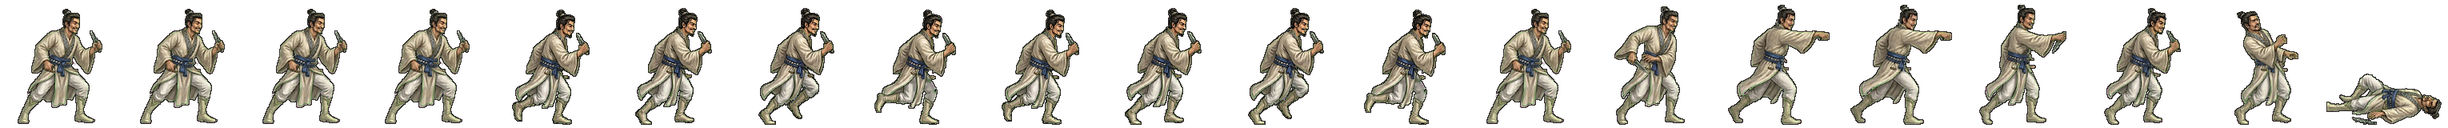
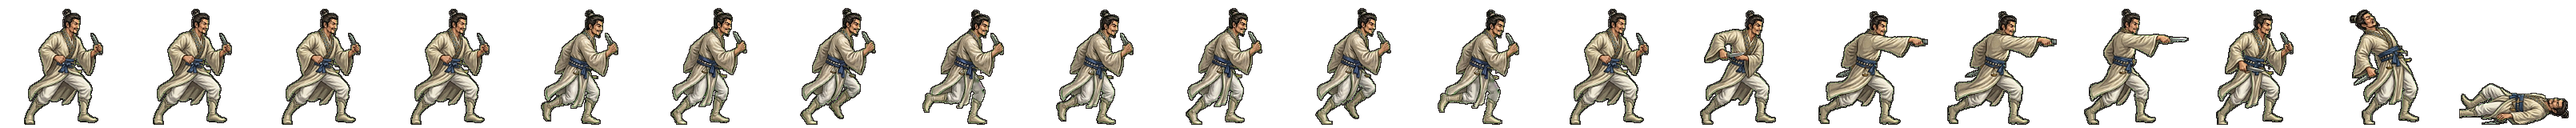
전투 띠 새로: odogan 동작 띠 다시 — 형이 구움 (굽기 꾸러미 · 검수 1·3번) (형 11-08)
Claude-Session: https://claude.ai/code/session_01TRiuNAG8xSjdmjCFpc8Rd5

Changed region(s): [[0.0, 0.0625, 1.0, 0.9688]]

diff --git a/src/ui/realm/battle-strikes.ts b/src/ui/realm/battle-strikes.ts
@@ -143,7 +143,7 @@ const CONTACT: Readonly<Record<string, [number, number, number]>> = {
   'gen-haebi': [14, 0.87, 0.53], 'gen-heo': [14, 0.94, 0.46], 'gen-hyeokgeose': [14, 0.83, 0.94],
   'gen-hyeopbo': [14, .93, .21], 'gen-malgalgi': [14, 0.88, 0.28], 'gen-mari': [14, .98, .47],
   'gen-oi': [14, .98, .48], 'gen-onjo': [14, 0.83, 0.93], 'gen-soebi': [14, 0.80, 0.95],
-  'gen-soseono': [14, 0.92, 0.31], 'gen-maryeo': [14, 0.91, 0.79], 'gen-horselord': [14, 0.89, 0.25], 'gen-olddaeso': [14, 0.93, 0.91], 'gen-maro': [14, 0.97, 0.49], 'gen-gwaeyu': [14, 0.98, 0.71], 'gen-daemusin': [14, 0.91, 0.38], 'gen-tahae': [14, 0.91, 0.74], 'gen-ocheongan': [14, 0.82, 0.49], 'gen-yusugan': [14, 0.95, 0.70], 'gen-odogan': [14, 0.93, 0.28], 'gen-pidogan': [14, 0.94, 0.75], 'gen-yeodogan': [14, 0.93, 0.57], 'gen-adogan': [14, 0.95, 0.41], 'gen-musoe': [14, 0.94, 0.39], 'gen-suro': [14, 0.82, 0.53], 'gen-waechief': [14, 0.95, 0.68], 'gen-hojin': [14, 0.97, 0.64], 'gen-jita': [14, 0.94, 0.34], 'gen-guryema': [14, 0.89, 0.28], 'gen-jibaekho': [14, 0.97, 0.33], 'gen-sobeol': [14, 0.95, 0.33], 'gen-alpyeong': [14, 0.95, 0.54], 'gen-hogong': [14, 0.98, 0.27], 'gen-geumbawi': [14, 0.91, 0.92], 'gen-keundol': [14, 0.90, 0.68], 'gen-jinha': [14, 0.76, 0.93], 'gen-duman': [14, 0.97, 0.39], 'gen-gomok': [14, 0.94, 0.57], 'gen-hneoul': [14, 0.92, 0.27], 'gen-tneoul': [14, 0.84, 0.57], 'gen-sdallae': [14, 0.89, 0.29], 'gen-yucheongan': [14, 0.97, 0.64], 'gen-sincheongan': [14, 0.91, 0.71], 'gen-singwigan': [14, 0.98, 0.21], 'gen-mdallae': [14, 0.98, 0.29], 'gen-mulbeom': [14, 0.95, 0.39], 'gen-beomi': [14, 0.88, 0.43], 'gen-danbi': [14, 0.90, 0.30], 'gen-mulsae': [14, 0.93, 0.36], 'gen-darae': [14, 0.89, 0.29], 'gen-mir': [14, 0.91, 0.33], 'gen-wan': [14, 0.94, 0.30], 'gen-gom': [14, 0.94, 0.74], 'gen-sagong': [14, 0.79, 0.96], 'gen-halla': [14, 0.86, 0.46], 'gen-areum': [14, 0.86, 0.65], 'gen-dokmudeom': [14, 0.95, 0.28], 'gen-beom': [14, 0.98, 0.28], 'gen-baram': [14, 0.96, 0.24], 'gen-goeun': [14, 0.95, 0.66], 'gen-byeol': [14, 0.76, 0.96], 'gen-sinneoul': [14, 0.95, 0.33], 'gen-haesol': [14, 0.95, 0.39], 'gen-odi': [14, 0.95, 0.37], 'gen-irang': [14, 0.86, 0.30], 'gen-dalli': [14, 0.89, 0.32], 'gen-bakdal': [14, 0.94, 0.27], 'gen-noeul': [14, 0.88, 0.27], 'gen-maehwa': [14, 0.90, 0.31], 'gen-gaon': [14, 0.98, 0.48], 'gen-eomni': [14, 0.96, 0.42], 'gen-nuri': [14, 0.98, 0.42], 'gen-bira': [14, 0.88, 0.42], 'gen-gureum': [14, 0.98, 0.42],
+  'gen-soseono': [14, 0.92, 0.31], 'gen-maryeo': [14, 0.91, 0.79], 'gen-horselord': [14, 0.89, 0.25], 'gen-olddaeso': [14, 0.93, 0.91], 'gen-maro': [14, 0.97, 0.49], 'gen-gwaeyu': [14, 0.98, 0.71], 'gen-daemusin': [14, 0.91, 0.38], 'gen-tahae': [14, 0.91, 0.74], 'gen-ocheongan': [14, 0.82, 0.49], 'gen-yusugan': [14, 0.95, 0.70], 'gen-odogan': [14, 0.96, 0.33], 'gen-pidogan': [14, 0.94, 0.75], 'gen-yeodogan': [14, 0.93, 0.57], 'gen-adogan': [14, 0.95, 0.41], 'gen-musoe': [14, 0.94, 0.39], 'gen-suro': [14, 0.82, 0.53], 'gen-waechief': [14, 0.95, 0.68], 'gen-hojin': [14, 0.97, 0.64], 'gen-jita': [14, 0.94, 0.34], 'gen-guryema': [14, 0.89, 0.28], 'gen-jibaekho': [14, 0.97, 0.33], 'gen-sobeol': [14, 0.95, 0.33], 'gen-alpyeong': [14, 0.95, 0.54], 'gen-hogong': [14, 0.98, 0.27], 'gen-geumbawi': [14, 0.91, 0.92], 'gen-keundol': [14, 0.90, 0.68], 'gen-jinha': [14, 0.76, 0.93], 'gen-duman': [14, 0.97, 0.39], 'gen-gomok': [14, 0.94, 0.57], 'gen-hneoul': [14, 0.92, 0.27], 'gen-tneoul': [14, 0.84, 0.57], 'gen-sdallae': [14, 0.89, 0.29], 'gen-yucheongan': [14, 0.97, 0.64], 'gen-sincheongan': [14, 0.91, 0.71], 'gen-singwigan': [14, 0.98, 0.21], 'gen-mdallae': [14, 0.98, 0.29], 'gen-mulbeom': [14, 0.95, 0.39], 'gen-beomi': [14, 0.88, 0.43], 'gen-danbi': [14, 0.90, 0.30], 'gen-mulsae': [14, 0.93, 0.36], 'gen-darae': [14, 0.89, 0.29], 'gen-mir': [14, 0.91, 0.33], 'gen-wan': [14, 0.94, 0.30], 'gen-gom': [14, 0.94, 0.74], 'gen-sagong': [14, 0.79, 0.96], 'gen-halla': [14, 0.86, 0.46], 'gen-areum': [14, 0.86, 0.65], 'gen-dokmudeom': [14, 0.95, 0.28], 'gen-beom': [14, 0.98, 0.28], 'gen-baram': [14, 0.96, 0.24], 'gen-goeun': [14, 0.95, 0.66], 'gen-byeol': [14, 0.76, 0.96], 'gen-sinneoul': [14, 0.95, 0.33], 'gen-haesol': [14, 0.95, 0.39], 'gen-odi': [14, 0.95, 0.37], 'gen-irang': [14, 0.86, 0.30], 'gen-dalli': [14, 0.89, 0.32], 'gen-bakdal': [14, 0.94, 0.27], 'gen-noeul': [14, 0.88, 0.27], 'gen-maehwa': [14, 0.90, 0.31], 'gen-gaon': [14, 0.98, 0.48], 'gen-eomni': [14, 0.96, 0.42], 'gen-nuri': [14, 0.98, 0.42], 'gen-bira': [14, 0.88, 0.42], 'gen-gureum': [14, 0.98, 0.42],
   'gen-biryu': [14, 0.90, 0.35], 'gen-geumha': [14, 0.94, 0.61], 'gen-geota': [14, 0.86, 0.47], 'gen-soebo': [14, 0.87, 0.57],
   'gen-gaennae': [14, 249 / 264, 47 / 160],
   'gen-budeul': [14, 266 / 280, 51 / 160],

diff --git a/src/realm/data/art.ts b/src/realm/data/art.ts
@@ -562,7 +562,7 @@ export const GEN_ANIM: Readonly<Partial<Record<string, { ar: number; body: numbe
   adogan: { ar: 139 / 160, body: 0.894 }, // 11-08 초상대로 다시 (형: 「투구 쓰고 원본과 다르다」 · 제미나이 걷기 4×2 + 동작 4×2 → 20컷 · assets_src/realm/gemini/generals2) · 11-08 처음 · 가락 아도간 · 흰 수염·지그재그 깃 옷·짧은 지팡이
   yeodogan: { ar: 172 / 160, body: 0.900 }, // 11-08 초상대로 다시 (형: 「투구 쓰고 원본과 다르다」 · 제미나이 걷기 4×2 + 동작 4×2 → 20컷 · assets_src/realm/gemini/generals2) · 11-08 처음 · 가락 여도간 동작 다시 · 단검 대신 낫 (형 11-08)
   pidogan: { ar: 148 / 160, body: 0.900 }, // 11-08 초상대로 다시 (형: 「투구 쓰고 원본과 다르다」 · 제미나이 걷기 4×2 + 동작 4×2 → 20컷 · assets_src/realm/gemini/generals2) · 11-08 처음 · 가락 피도간 · 털 조끼·발톱 목걸이·손도끼
-  odogan: { ar: 153 / 160, body: 0.900 }, // 11-08 초상대로 다시 (형: 「투구 쓰고 원본과 다르다」 · 제미나이 걷기 4×2 + 동작 4×2 → 20컷 · assets_src/realm/gemini/generals2) · 11-08 처음 · 가락 오도간 · 지그재그 깃 옷·작은 저울·짧은 칼
+  odogan: { ar: 161 / 160, body: 0.894 }, // 11-08 초상대로 다시 (형: 「투구 쓰고 원본과 다르다」 · 제미나이 걷기 4×2 + 동작 4×2 → 20컷 · assets_src/realm/gemini/generals2) · 11-08 처음 · odogan 동작 띠 다시 — 형이 구움 (굽기 꾸러미 · 검수 1·3번)
   yusugan: { ar: 162 / 160, body: 0.894 }, // 11-08 초상대로 다시 (형: 「투구 쓰고 원본과 다르다」 · 제미나이 걷기 4×2 + 동작 4×2 → 20컷 · assets_src/realm/gemini/generals2) · 11-08 처음 · 가락 유수간 동작 칸 다시 고름 · 창끝이 뒤로 가던 3·5번 칸 뺌
   ocheongan: { ar: 162 / 160, body: 0.900 }, // 11-08 초상대로 다시 (형: 「투구 쓰고 원본과 다르다」 · 제미나이 걷기 4×2 + 동작 4×2 → 20컷 · assets_src/realm/gemini/generals2) · 11-08 처음 · 가락 오천간 · 흰 머리띠 뱃사공·밧줄·노
   tahae: { ar: 151 / 160, body: 0.900 }, // 11-08 초상대로 다시 (형: 「투구 쓰고 원본과 다르다」 · 제미나이 걷기 4×2 + 동작 4×2 → 20컷 · assets_src/realm/gemini/generals2) · 11-08 처음 · 탈해 · 깃털 꽂은 바다 떠돌이·푸른 민소매·곧은 칼
